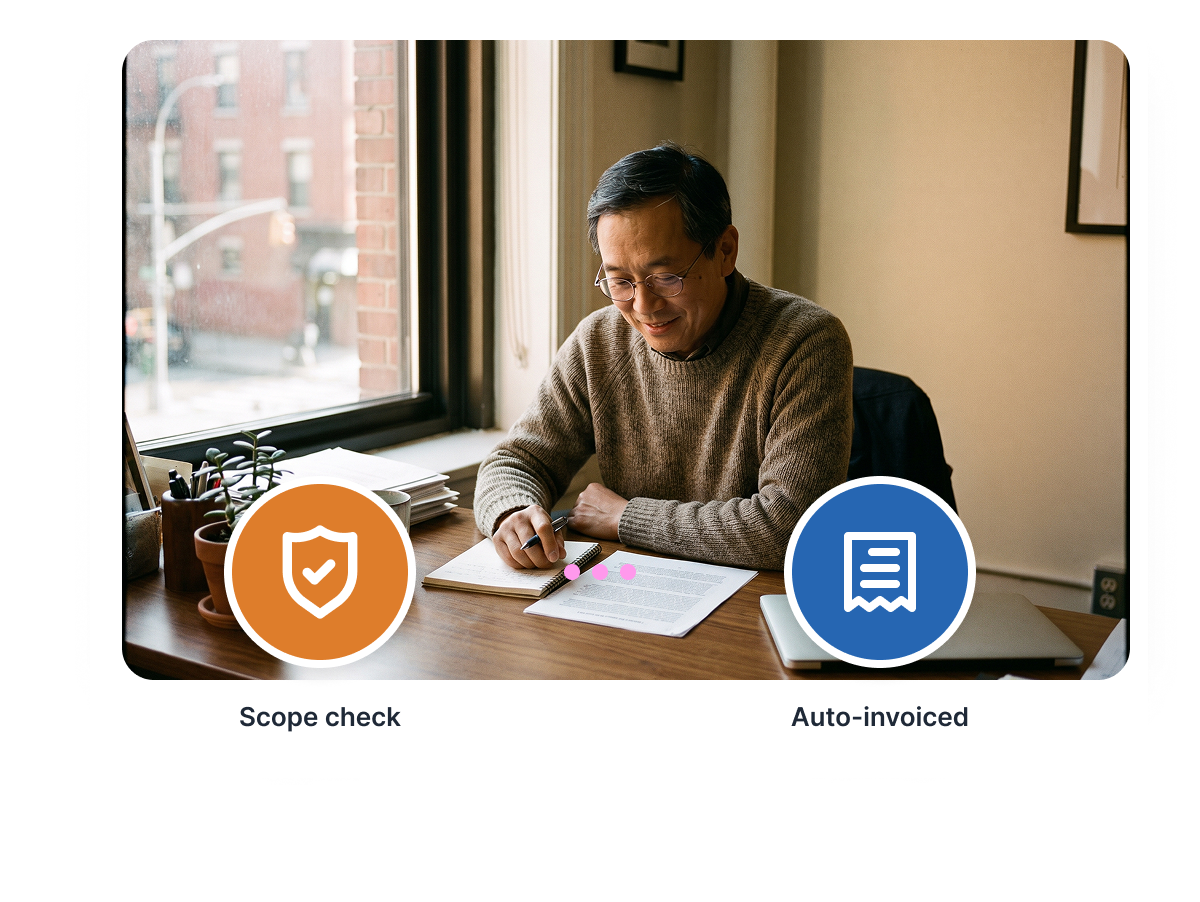
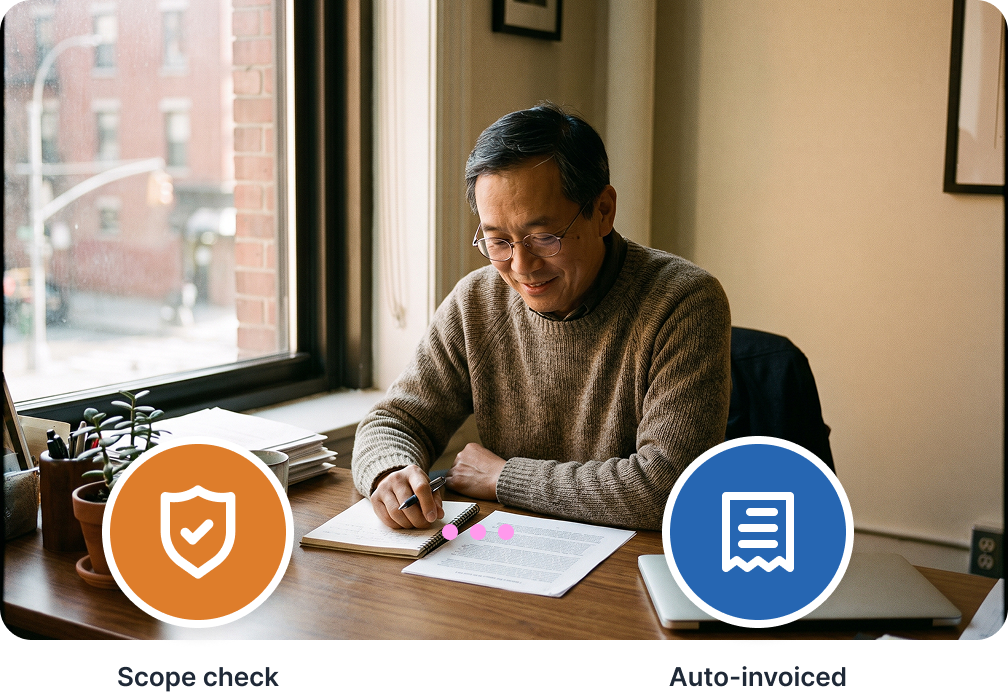
Reframe audience workspace cards

diff --git a/src/components/home/audience-picker.tsx b/src/components/home/audience-picker.tsx
@@ -12,13 +12,12 @@ type Audience = {
   tab: string;
   headline: string;
   problem: string;
-  /**
-   * Path under /public once real photography exists for this business type.
-   * Leave it out and the card is the thread alone — the layout works either
-   * way, so images can land one at a time.
-   */
+  /** Completed workspace-card export from Figma. */
   photo?: string;
-  /** Alt text for that photo. Required whenever `photo` is set. */
+  /** Intrinsic dimensions preserve each card's intended framing. */
+  photoWidth?: number;
+  photoHeight?: number;
+  /** Alt text for that workspace card. Required whenever `photo` is set. */
   photoAlt?: string;
   /**
    * A worked example of the moment, not a testimonial: what arrives, and what
@@ -43,6 +42,8 @@ const audiences: Audience[] = [
     problem:
       "Someone asks for a price on a Friday afternoon. You mean to chase it Monday, the week fills up, and the job quietly goes to whoever answered first.",
     photo: "/audiences/home-services.png",
+    photoWidth: 1008,
+    photoHeight: 687,
     photoAlt: "Home services workspace showing a new lead becoming a prepared contract",
     thread: {
       stamp: "Fri 16:52",
@@ -60,6 +61,8 @@ const audiences: Audience[] = [
     problem:
       "Bookings come in across phone, email and the website. Reminders go out when someone remembers, and the no-shows are the ones that never got a second touch.",
     photo: "/audiences/clinics-practices.png",
+    photoWidth: 1296,
+    photoHeight: 667,
     photoAlt: "Clinic workspace showing a booking, cancellation, and newly opened slot",
     thread: {
       stamp: "Tue 19:20",
@@ -76,7 +79,9 @@ const audiences: Audience[] = [
     headline: "The client who just stopped coming.",
     problem:
       "A regular drifts off after eight weeks. There is no list of who is overdue, so the rebooking depends on whether someone happens to notice.",
-    photo: "/audiences/salons-studios.png",
+    photo: "/audiences/salons-studios-v2.png",
+    photoWidth: 1296,
+    photoHeight: 667,
     photoAlt: "Salon workspace showing a booking, automated follow-up, and rebooking reminder",
     thread: {
       stamp: "Week nine",
@@ -94,6 +99,8 @@ const audiences: Audience[] = [
     problem:
       "You had the whole conversation in the sales call. Then delivery asks the client the same questions again, and the relationship starts on the back foot.",
     photo: "/audiences/agencies-consultants.png",
+    photoWidth: 1008,
+    photoHeight: 692,
     photoAlt: "Consulting workspace showing a scope check becoming an automated invoice",
     thread: {
       stamp: "Mon 11:04",
@@ -110,8 +117,10 @@ const audiences: Audience[] = [
     headline: "The enquiry answered four hours late.",
     problem:
       "Portal leads arrive in bulk at all hours. The first agent to reply usually gets the viewing, and by the evening the good ones are already booked elsewhere.",
-    photo: "/audiences/property-real-estate.png",
-    photoAlt: "Property workspace showing a lead being tagged, tracked, and reported",
+    photo: "/audiences/trades-field-work.png",
+    photoWidth: 1008,
+    photoHeight: 692,
+    photoAlt: "Property workspace showing a service request being automatically routed",
     thread: {
       stamp: "Sat 07:41",
       source: "Portal enquiry",
@@ -127,8 +136,10 @@ const audiences: Audience[] = [
     headline: "The day that got rearranged by phone.",
     problem:
       "A job overruns, two customers need moving, and the whole afternoon becomes a string of calls made from a van between sites.",
-    photo: "/audiences/trades-field-work.png",
-    photoAlt: "Field-work workspace showing a service request being automatically routed",
+    photo: "/audiences/property-real-estate.png",
+    photoWidth: 1296,
+    photoHeight: 667,
+    photoAlt: "Field-work workspace showing a lead being tagged, tracked, and reported",
     thread: {
       stamp: "Wed 14:15",
       source: "Job overran",
@@ -199,15 +210,15 @@ export function AudiencePicker() {
         role="tabpanel"
         tabIndex={0}
       >
-        {/* Containment keeps the whole supplied asset visible. A replacement can
-            be landscape, square, or portrait without stretching or clipping. */}
+        {/* Intrinsic sizing keeps the complete workspace card large and uncropped. */}
         {current.photo ? (
           <figure className={styles.shotPhoto}>
             <Image
               alt={current.photoAlt ?? ""}
-              fill
+              height={current.photoHeight ?? 1}
               sizes="(max-width: 620px) calc(100vw - 32px), (max-width: 900px) calc(100vw - 48px), 46vw"
               src={current.photo}
+              width={current.photoWidth ?? 1}
             />
           </figure>
         ) : (

diff --git a/src/components/home/audience-picker.module.css b/src/components/home/audience-picker.module.css
@@ -38,9 +38,9 @@
 /* ---------- the panel ---------- */
 .panel {
   display: grid;
-  grid-template-columns: minmax(0, .95fr) minmax(0, 1.05fr);
+  grid-template-columns: minmax(0, 1.05fr) minmax(0, .95fr);
   align-items: start;
-  gap: 44px;
+  gap: 40px;
   padding-top: 34px;
   animation-duration: .52s;
   animation-timing-function: var(--ease-standard);
@@ -60,20 +60,23 @@
 .copy > :nth-child(3) { animation-delay: 170ms; }
 .copy > :nth-child(4) { animation-delay: 215ms; }
 
-/* The frame is screen-safe and the entire supplied image remains visible. */
+/* Each export is trimmed to its visible card bounds, then rendered at its
+   intrinsic ratio so the artwork fills the column without being cropped. */
 .shotPhoto {
   position: relative;
   display: grid;
+  place-items: center;
   width: 100%;
   min-width: 0;
-  aspect-ratio: 3 / 2;
   margin: 0;
-  overflow: hidden;
-  border: 1px solid var(--line);
-  border-radius: 18px;
-  background: var(--pearl);
+  overflow: visible;
+  border: 0;
+  background: transparent;
 }
 .shotPhoto img {
+  display: block;
+  width: 100%;
+  height: auto;
   object-fit: contain;
   object-position: center;
 }
@@ -188,7 +191,6 @@
 /* ---------- responsive ---------- */
 @media (max-width: 900px) {
   .panel { grid-template-columns: 1fr; gap: 26px; }
-  .shotPhoto { max-height: min(62vh, 520px); }
 }
 
 @media (max-width: 620px) {
